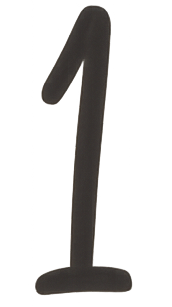
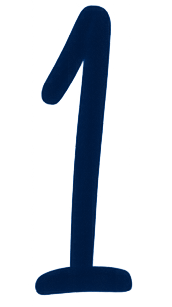
a

Changed region(s): [[0.2035, 0.0, 0.7849, 0.9674]]

diff --git a/public/styles3.css b/public/styles3.css
@@ -632,7 +632,7 @@ img.g2 {
 .can span {
     font-size: 4.1vmin;
     font-family: Marker;
-    color: #292929;
+    color: #0023a9;
     align-content: end;
     left: 7.3vmin;
     position: relative;
@@ -664,7 +664,7 @@ img.g2 {
     position: absolute;
     top: 4vmin;
     left: 5vmin;
-	width: 33vmin;
+	width: 56vmin;
     display: flex;
     flex-direction: column;
     gap: 0.2vmin;
@@ -682,7 +682,8 @@ img.g2 {
     opacity: 70%;
     border: 0.8vmin dashed #e50000;
     border-top-width: 0;
-    transform: rotate(5deg);		
+    transform: rotate(5deg);
+    z-index: 103;	
 }
 
 .page3-stamp span {
